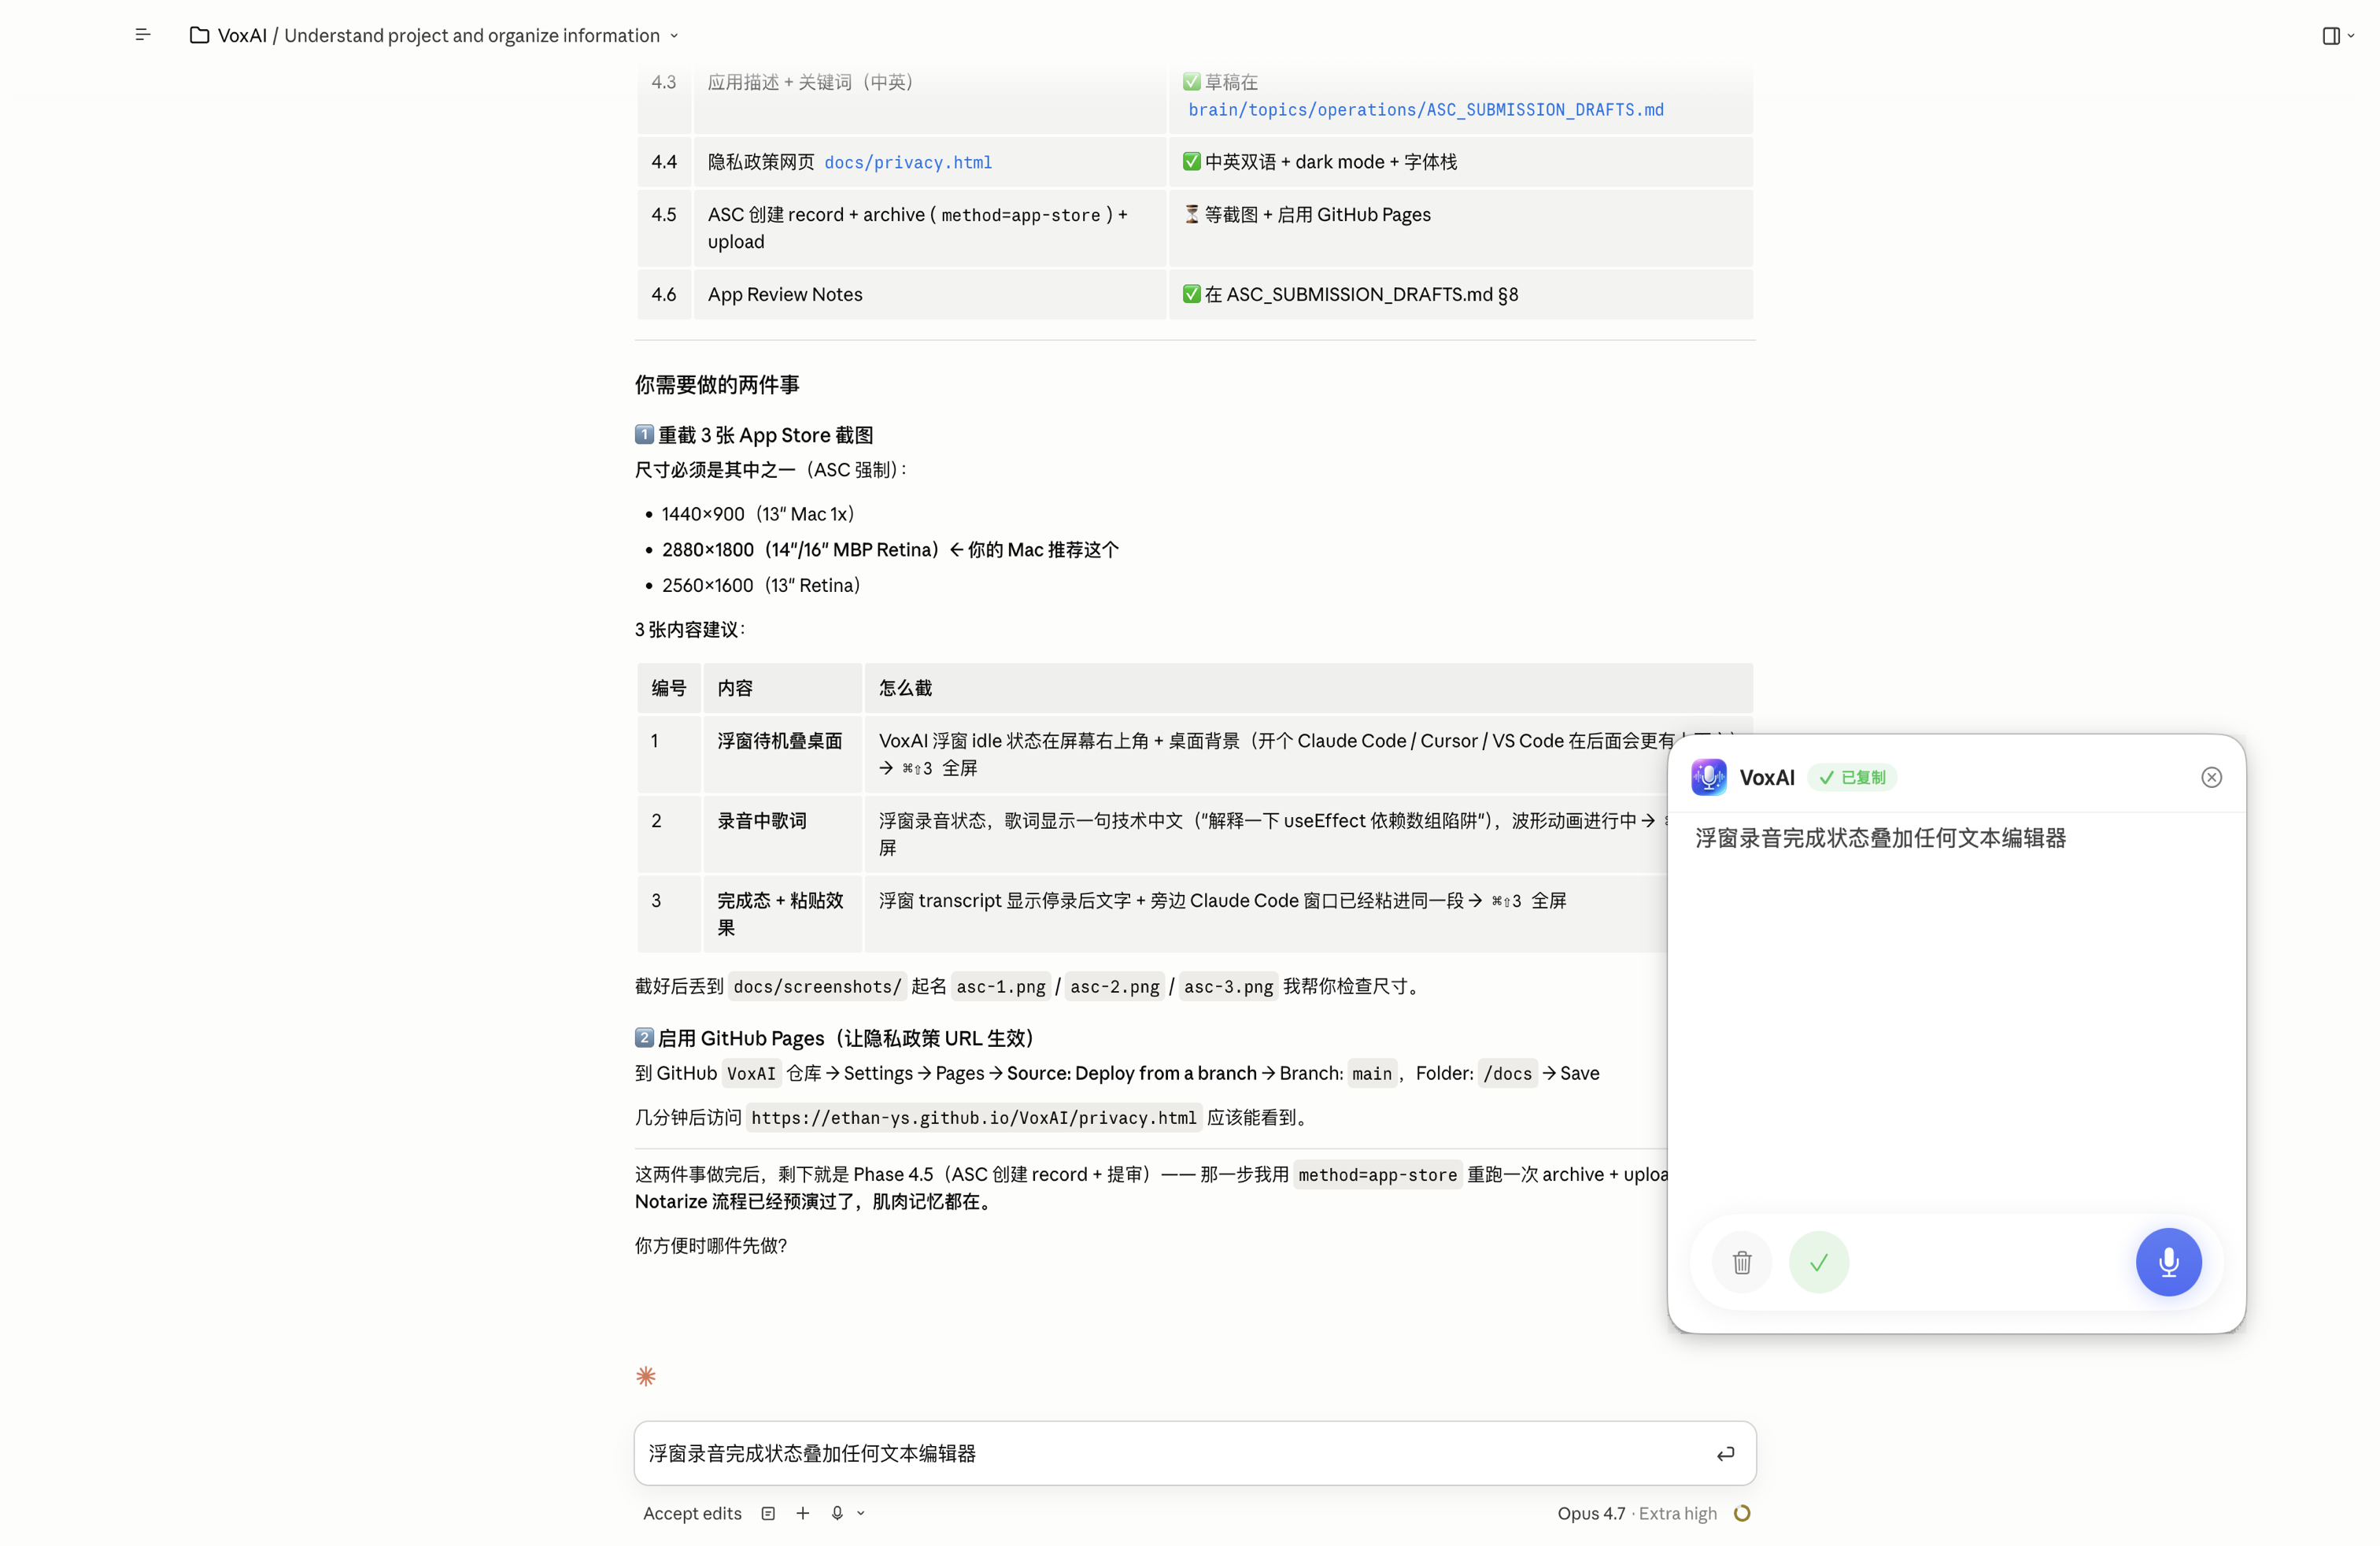
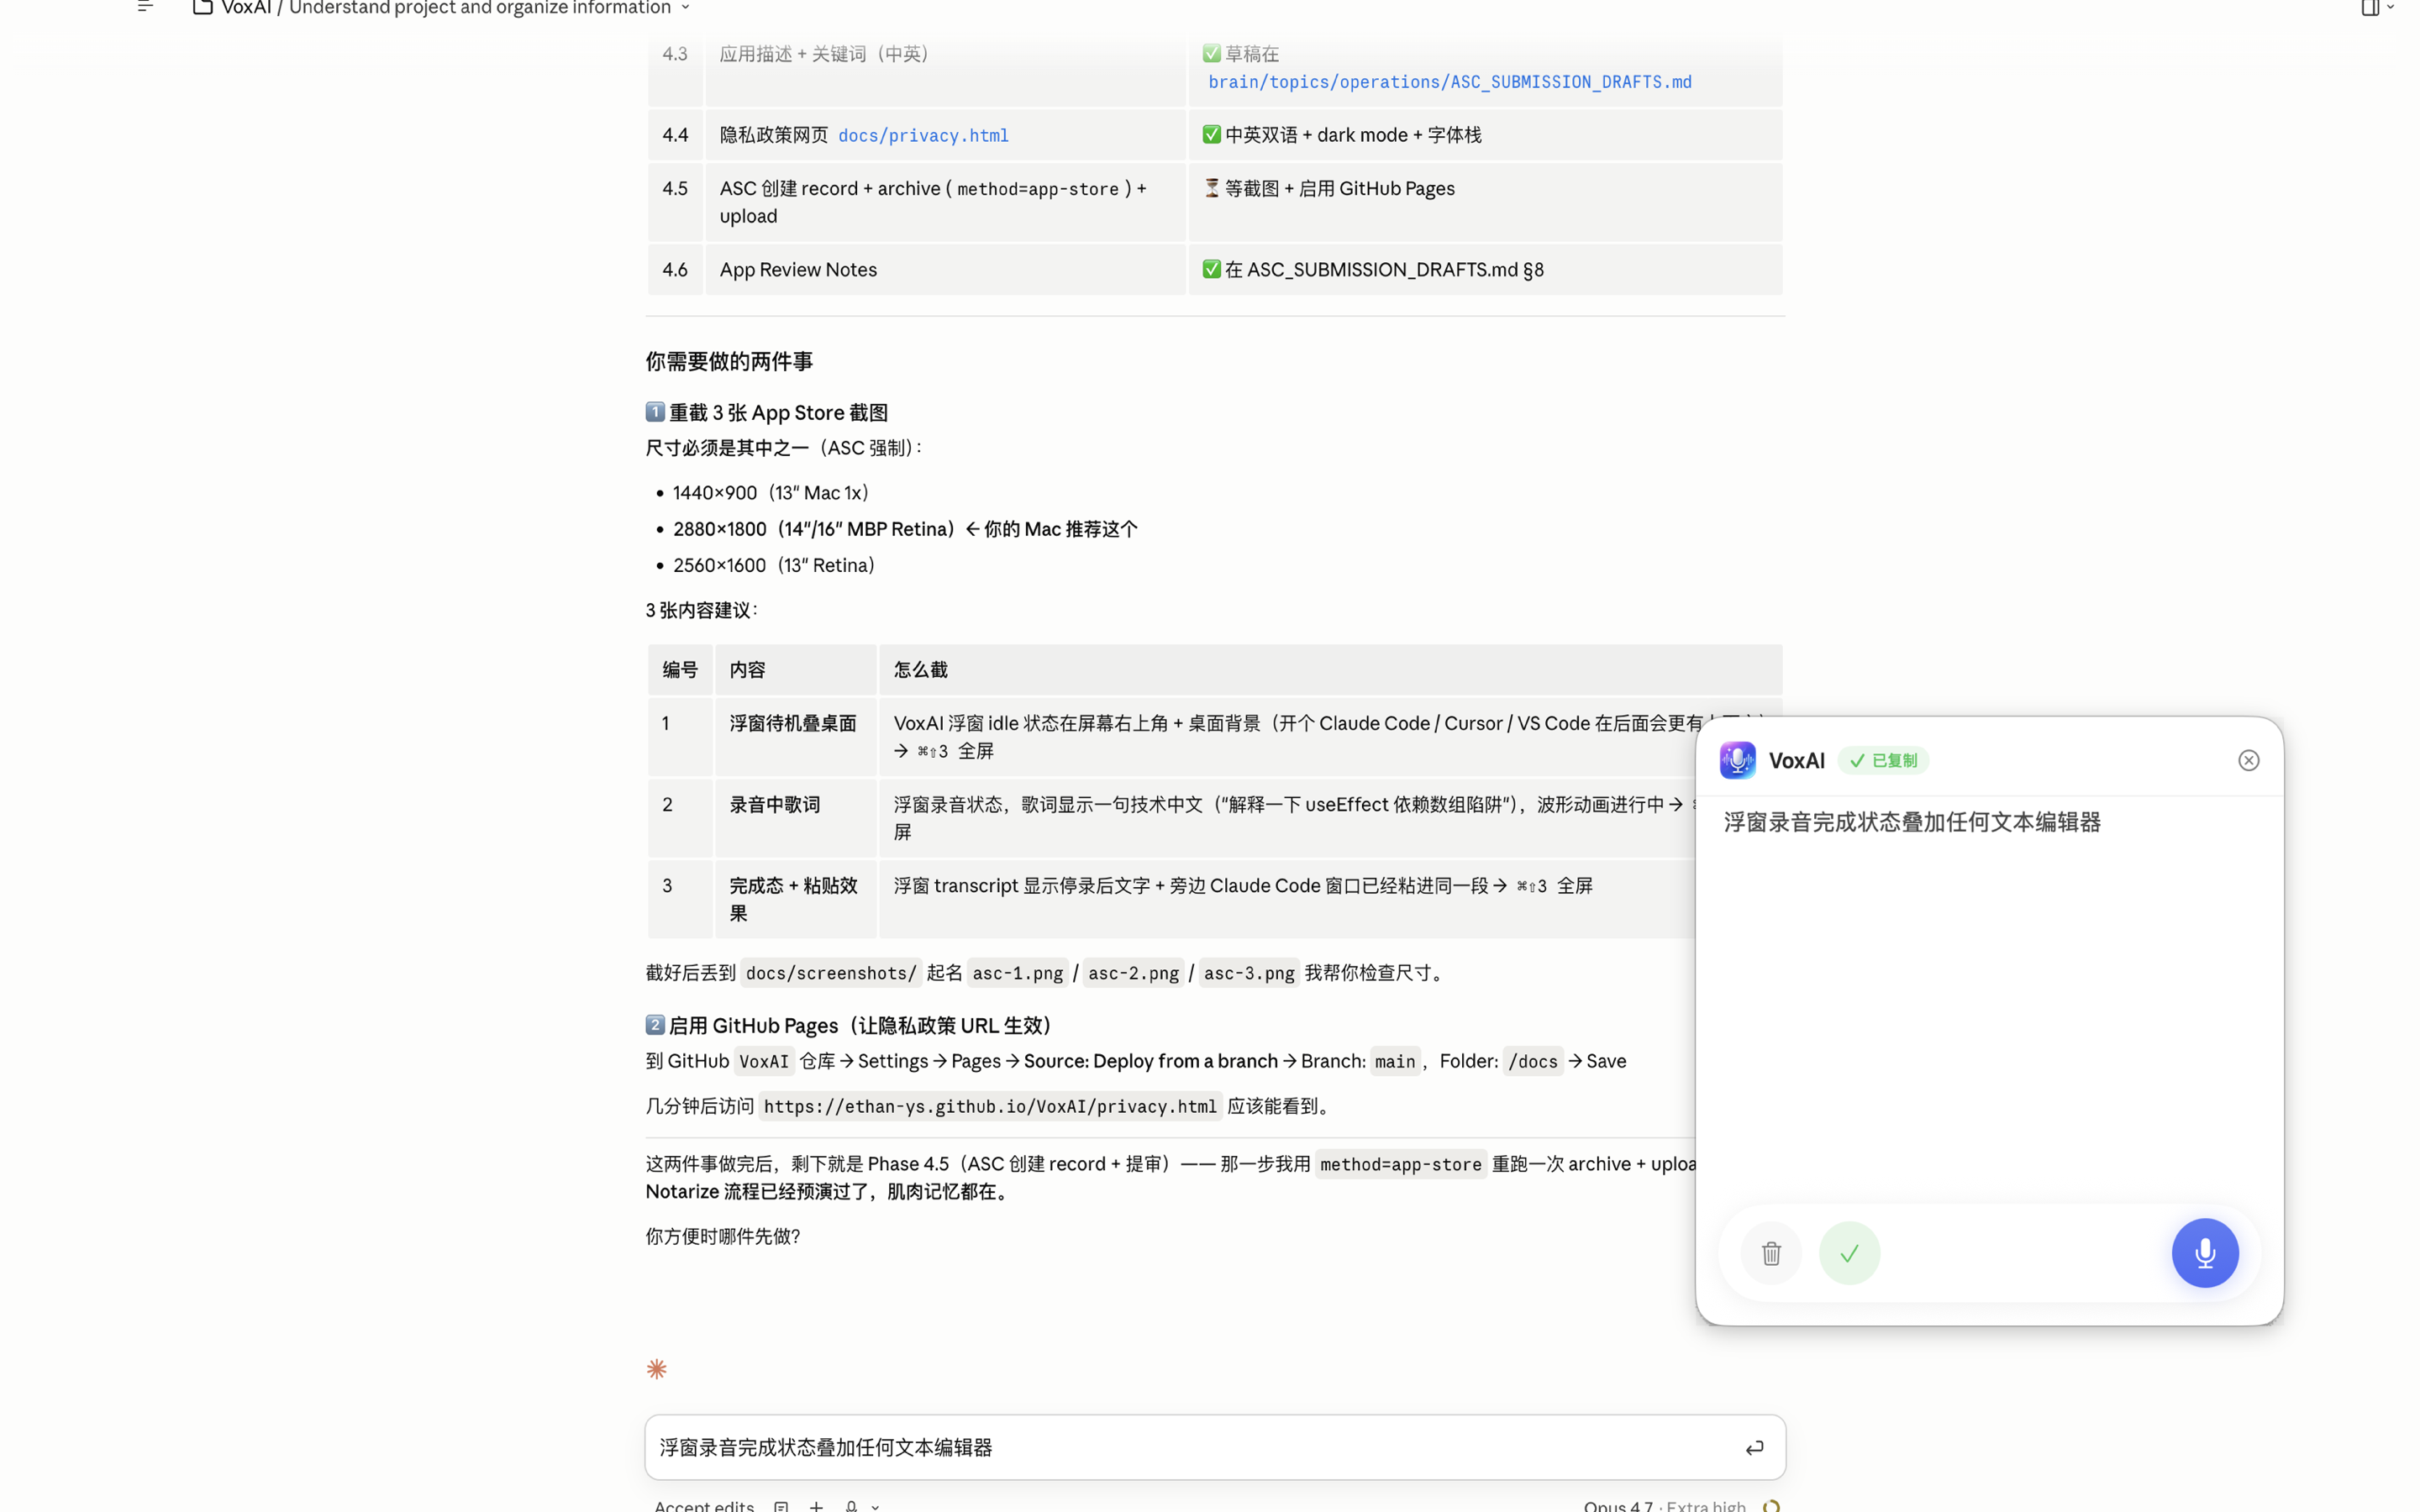
Phase 4.5 follow-up: ASC screenshots resized 3024×1964 → 2880×1800
ASC rejected the originals — its macOS dimensions whitelist is strict
(1280×800 / 1440×900 / 2560×1600 / 2880×1800), and 14" MacBook Pro's
native 3024×1964 (ratio 1.539:1) isn't on it. ASC needs strict 16:10.

Fix via sips: center-crop to 3024×1890 (16:10 by trimming 37px top
+ 37px bottom — mostly menu bar edge and dock fringe, the floating
panel content stays whole), then downscale to 2880×1800. All three
under the 8MB upload cap (5.3MB / 761KB / 695KB).

§9 of ASC drafts updated:
- Whitelist now correctly excludes 3024×1964
- Trap warning added for future Sage with the sips one-liner
- Current-state table reflects the new dimensions

Old 3024×1964 PNGs preserved in git history (commit ba764b7) for
reference.

diff --git a/brain/topics/operations/ASC_SUBMISSION_DRAFTS.md b/brain/topics/operations/ASC_SUBMISSION_DRAFTS.md
@@ -264,12 +264,17 @@ Privacy policy: https://ethan-ys.github.io/VoxAI/privacy.html
 
 ## 9. 截图清单（Phase 4.2）
 
-ASC macOS app 接受的尺寸（必须是其中之一）：
+ASC macOS app 接受的尺寸（必须是其中之一，**严格白名单**）：
 - 1280×800
 - 1440×900
-- **2560×1600**（现代 13" MBP Retina）
-- **2880×1800**（现代 14"/16" MBP Retina）
-- 3024×1964
+- **2560×1600**（13" MBP Retina）
+- **2880×1800**（5K display / 16:10 高分辨率）
+
+> ⚠️ **陷阱**：14" MacBook Pro 原生分辨率是 3024×1964（比例 1.539:1，不是 16:10），**不在 ASC 白名单**。ASC 上传会报"截屏尺寸存在错误"。需要 crop + resize 到 2880×1800（最高质量）。命令：
+> ```bash
+> sips --cropToHeightWidth 1890 3024 input.png --out tmp.png  # center-crop to 16:10
+> sips -Z 2880 tmp.png --out output.png                       # downscale to 2880×1800
+> ```
 
 每种尺寸至少 1 张，最多 10 张。建议提交 ≥3 张。
 
@@ -283,17 +288,18 @@ ASC macOS app 接受的尺寸（必须是其中之一）：
 - 截后用 macOS 自带 Preview 裁剪到目标尺寸
 - 不要在截图里露出私人信息（聊天窗口 / 邮箱 / 文档名）
 
-**当前状态（2026-05-05 截图就绪）**：
+**当前状态（2026-05-06 截图就绪，已 resize 到 2880×1800）**：
 
-ASC 用全屏截图（3024×1964，符合 ASC "13"/16" Retina" 尺寸标准）：
 | 文件 | 内容 | 尺寸 |
 |---|---|---|
-| `docs/screenshots/asc-1-floating.png` | 浮窗悬浮在桌面壁纸（湖景）—— 展示常驻特性 | 3024×1964 (5.9MB) |
-| `docs/screenshots/asc-2-recording.png` | 浮窗录音中歌词 + 旁边 Claude Code 窗口 —— 展示用嘴编程主场景 | 3024×1964 (752KB) |
-| `docs/screenshots/asc-3-finished.png` | 浮窗完成态（绿色 ✓ "已复制" + 重录按钮）+ 旁边 Claude Code —— 展示 DR-020 自动复制结果 | 3024×1964 (692KB) |
+| `docs/screenshots/asc-1-floating.png` | 浮窗悬浮在桌面壁纸（湖景）—— 展示常驻特性 | 2880×1800 (5.3MB) |
+| `docs/screenshots/asc-2-recording.png` | 浮窗录音中歌词 + 旁边 Claude Code 窗口 —— 展示用嘴编程主场景 | 2880×1800 (761KB) |
+| `docs/screenshots/asc-3-finished.png` | 浮窗完成态（绿色 ✓ "已复制" + 重录按钮）+ 旁边 Claude Code —— 展示 DR-020 自动复制结果 | 2880×1800 (695KB) |
 
 3 张连成一个故事：**桌面悬浮 → 录音中 → 自动复制完成准备粘贴**。
-asc-1 偏大（5.9MB）是因为桌面壁纸细节多，ASC 上限 8MB 安全。
+全部 < 8MB ASC 上限。
+
+> 历史：原始截图 3024×1964（14" MBP 原生）2026-05-06 ASC 上传被拒，sips center-crop + resize 到 2880×1800。损失：上下边各 ~37px（菜单栏边缘 + dock 部分）。git 历史保留 3024×1964 旧版作 reference。
 
 README / 项目文档用的浮窗局部素材（840×840）保留在 `docs/screenshots/ui-{idle,recording,finished}.png`。
 